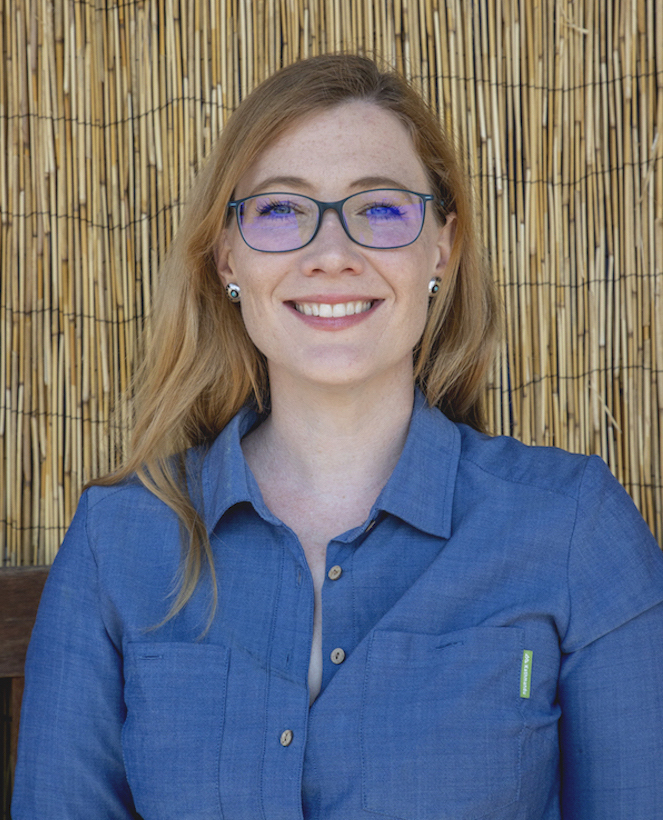
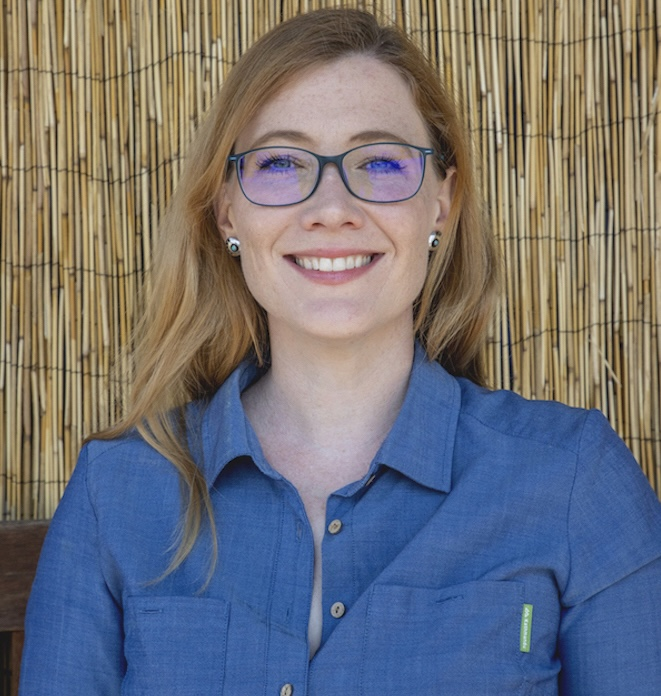
Added joe

diff --git a/_site/about/index.html b/_site/about/index.html
@@ -144,7 +144,7 @@
 
 <p>To address this gap, we propose a summer school dedicated to developing the skills needed to communicate with researchers of social and collective behavior from diverse fields, <strong>using computational models as a common language</strong>. Computational modeling is becoming both more important and widely used in behavioural sciences. However, the mathematical framework and computational skills necessary to tackle the interdisciplinary challenges of modeling collective behaviour are not always readily accessible to early career researchers.</p>
 
-<p>For our third iteration in 2025, we have invited an exciting new line-up of speakers across a diverse spectrum of approaches for modeling social and collective behavior in humans and animals. In relocating to Tokyo for 2025, we have prioritized inviting leading researchers in Asia and Australia.  A keynote talk will be given by <a href="http://www.tatsuyakameda.com/homeeng.html" target="_blank">Tatsuya Kameda</a> (Director of the Center for Interdisciplinary Informatics, Meiji Gakuin University), followed by six thematic lectures by <a href="https://www.lushazhu.com/">Lusha Zhu</a> (Peking University), <a href="https://sites.google.com/site/lucymaplin/home" target="_blank">Lucy Aplin</a> (Uni Zürich/Australian National University), <a href="https://sites.google.com/site/drfarine/home" target="_blank">Damien Farine</a> (Australian National University/Uni Zürich/MPI Animal Behavior), <a href="https://sites.google.com/view/szklab/english/top?authuser=0" target="_blank">Shinsuke Suzuki</a> (Hitotsubashi Uni), <a href="https://sites.google.com/view/mayukonakamarulab/%E3%83%9B%E3%83%BC%E3%83%A0/members-english?authuser=0" target="_blank">Mayuko Nakamaru</a> (Institute of Science Tokyo), <a href="https://billdthompson.github.io/" target="_blank">Bill D. Thompson</a> (UC Berkeley), and <a href="https://web.mit.edu/zyzzyva/www/academic.html" target="_blank">Lio Wong</a> (Stanford).</p>
+<p>For our third iteration in 2025, we have invited an exciting new line-up of speakers across a diverse spectrum of approaches for modeling social and collective behavior in humans and animals. In relocating to Tokyo for 2025, we have prioritized inviting leading researchers in Asia and Australia.  A keynote talk will be given by <a href="http://www.tatsuyakameda.com/homeeng.html" target="_blank">Tatsuya Kameda</a> (Director of the Center for Interdisciplinary Informatics, Meiji Gakuin University), followed by six thematic lectures by <a href="https://www.lushazhu.com/">Lusha Zhu</a> (Peking University), <a href="https://sites.google.com/site/lucymaplin/home" target="_blank">Lucy Aplin</a> (Uni Zürich/Australian National University), <a href="https://sites.google.com/site/drfarine/home" target="_blank">Damien Farine</a> (Australian National University/Uni Zürich/MPI Animal Behavior), <a href="https://sites.google.com/view/szklab/english/top?authuser=0" target="_blank">Shinsuke Suzuki</a> (Hitotsubashi Uni), <a href="https://sites.google.com/view/mayukonakamarulab/%E3%83%9B%E3%83%BC%E3%83%A0/members-english?authuser=0" target="_blank">Mayuko Nakamaru</a> (Institute of Science Tokyo), <a href="https://alab.psych.wisc.edu/" target="_blank">Joseph Austerweil</a> (UW-Madison &amp; Chiba Tech), and <a href="https://web.mit.edu/zyzzyva/www/academic.html" target="_blank">Lio Wong</a> (Stanford).</p>
       <h2 id="assignments-and-mentorship">
         
         

diff --git a/_site/instructors/index.html b/_site/instructors/index.html
@@ -234,34 +234,6 @@
 
 <div class="staffer">
   
-  <img class="staffer-image" src="/assets/images/billthompson.jpg" alt="" />
-  
-  <div>
-      <h3 class="staffer-name">
-        
-        
-          
-      
-      <a href="https://billdthompson.github.io/">Bill Thompson</a>
-      
-      
-    
-        
-        
-      </h3>
-    
-    
-    <p><a href="mailto:wdt[at]berkeley[dot]edu">wdt[at]berkeley[dot]edu</a></p>
-    
-    
-    
-    <p>Bill Thompson is an Assistant Professor of Psychology and Cognitive Science at the University of California, Berkeley and director of the Computational Cognitive Science lab.</p>
-
-  </div>
-</div>
-
-<div class="staffer">
-  
   <img class="staffer-image" src="/assets/images/damien.jpeg" alt="" />
   
   <div>
@@ -284,6 +256,34 @@
     
     
     <p>Damien is a behavioural ecologist and computational biologist with a deep interest in the social behaviour of animals. His research combines running long-term monitoring projects on animal populations together with using high-resolution tracking of groups of individuals to gain a better understanding of how individuals contribute to their society and the consequences of doing so. He is an Associate Professor at the Australian National University.</p>
+
+  </div>
+</div>
+
+<div class="staffer">
+  
+  <img class="staffer-image" src="/assets/images/joeausterweil.jpg" alt="" />
+  
+  <div>
+      <h3 class="staffer-name">
+        
+        
+          
+      
+      <a href="https://alab.psych.wisc.edu/">Joseph Austerweil</a>
+      
+      
+    
+        
+        
+      </h3>
+    
+    
+    <p><a href="mailto:austerweil[at]wisc[dot]edu">austerweil[at]wisc[dot]edu</a></p>
+    
+    
+    
+    <p>Joseph Austerweil is a cognitive scientist who builds computational models of human thought and behavior. His research explores how people learn, retrieve, teach, and create knowledge—often combining insights from psychology, neuroscience, and machine learning. Currently based at UW-Madison, he will be moving to Chiba Tech on June 1st.</p>
 
   </div>
 </div>

diff --git a/about.md b/about.md
@@ -20,7 +20,7 @@ While human social learning is certainly distinct, there has also been a long-st
 
 To address this gap, we propose a summer school dedicated to developing the skills needed to communicate with researchers of social and collective behavior from diverse fields, **using computational models as a common language**. Computational modeling is becoming both more important and widely used in behavioural sciences. However, the mathematical framework and computational skills necessary to tackle the interdisciplinary challenges of modeling collective behaviour are not always readily accessible to early career researchers.
 
-For our third iteration in 2025, we have invited an exciting new line-up of speakers across a diverse spectrum of approaches for modeling social and collective behavior in humans and animals. In relocating to Tokyo for 2025, we have prioritized inviting leading researchers in Asia and Australia.  A keynote talk will be given by [Tatsuya Kameda](http://www.tatsuyakameda.com/homeeng.html){:target="_blank"} (Director of the Center for Interdisciplinary Informatics, Meiji Gakuin University), followed by six thematic lectures by [Lusha Zhu](https://www.lushazhu.com/) (Peking University), [Lucy Aplin](https://sites.google.com/site/lucymaplin/home){:target="_blank"} (Uni Zürich/Australian National University), [Damien Farine](https://sites.google.com/site/drfarine/home){:target="_blank"} (Australian National University/Uni Zürich/MPI Animal Behavior), [Shinsuke Suzuki](https://sites.google.com/view/szklab/english/top?authuser=0){:target="_blank"} (Hitotsubashi Uni), [Mayuko Nakamaru](https://sites.google.com/view/mayukonakamarulab/%E3%83%9B%E3%83%BC%E3%83%A0/members-english?authuser=0){:target="_blank"} (Institute of Science Tokyo), [Bill D. Thompson](https://billdthompson.github.io/){:target="_blank"} (UC Berkeley), and [Lio Wong](https://web.mit.edu/zyzzyva/www/academic.html){:target="_blank"} (Stanford).
+For our third iteration in 2025, we have invited an exciting new line-up of speakers across a diverse spectrum of approaches for modeling social and collective behavior in humans and animals. In relocating to Tokyo for 2025, we have prioritized inviting leading researchers in Asia and Australia.  A keynote talk will be given by [Tatsuya Kameda](http://www.tatsuyakameda.com/homeeng.html){:target="_blank"} (Director of the Center for Interdisciplinary Informatics, Meiji Gakuin University), followed by six thematic lectures by [Lusha Zhu](https://www.lushazhu.com/) (Peking University), [Lucy Aplin](https://sites.google.com/site/lucymaplin/home){:target="_blank"} (Uni Zürich/Australian National University), [Damien Farine](https://sites.google.com/site/drfarine/home){:target="_blank"} (Australian National University/Uni Zürich/MPI Animal Behavior), [Shinsuke Suzuki](https://sites.google.com/view/szklab/english/top?authuser=0){:target="_blank"} (Hitotsubashi Uni), [Mayuko Nakamaru](https://sites.google.com/view/mayukonakamarulab/%E3%83%9B%E3%83%BC%E3%83%A0/members-english?authuser=0){:target="_blank"} (Institute of Science Tokyo), [Joseph Austerweil](https://alab.psych.wisc.edu/){:target="_blank"} (UW-Madison & Chiba Tech), and [Lio Wong](https://web.mit.edu/zyzzyva/www/academic.html){:target="_blank"} (Stanford).
 
 ## Assignments and Mentorship
 

diff --git a/_instructors/joeausterweil.md b/_instructors/joeausterweil.md
@@ -1,0 +1,9 @@
+---
+name: Joseph Austerweil
+role: Instructor
+email: austerweil[at]wisc[dot]edu
+website: https://alab.psych.wisc.edu/
+photo: joeausterweil.jpg
+---
+
+Joseph Austerweil is a cognitive scientist who builds computational models of human thought and behavior. His research explores how people learn, retrieve, teach, and create knowledge—often combining insights from psychology, neuroscience, and machine learning. Currently based at UW-Madison, he will be moving to Chiba Tech on June 1st.
